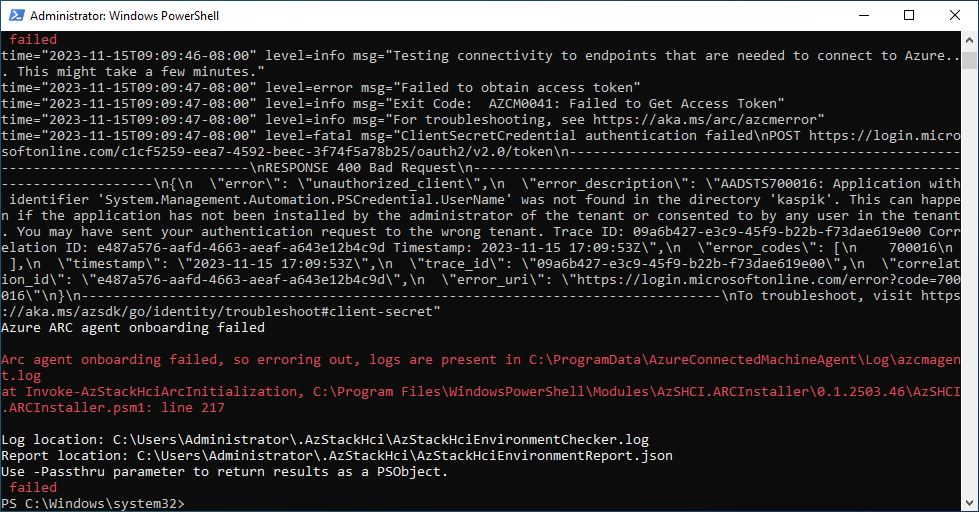
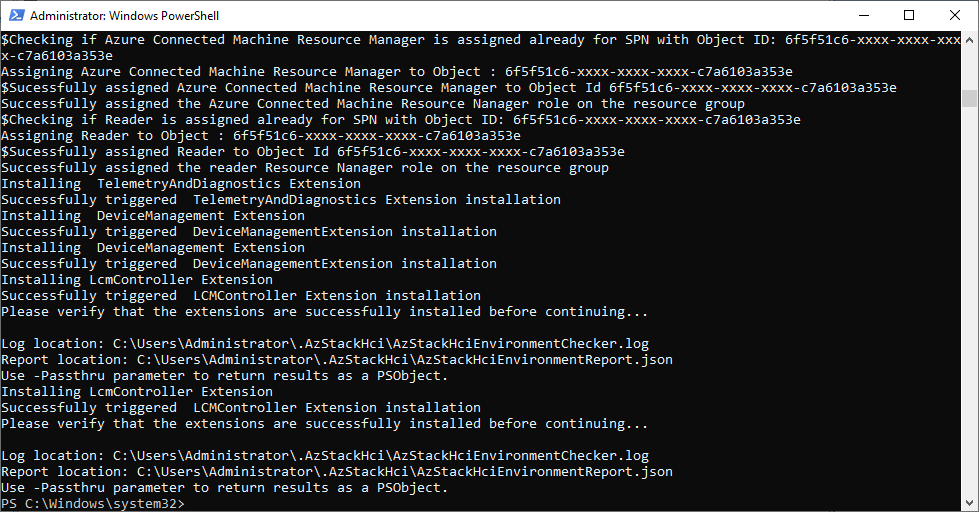
Service Principal removed

Changed region(s): [[0.0, 0.0625, 1.0, 0.9688], [0.9806, 0.9688, 1.0, 1.0], [0.9806, 0.0, 1.0, 0.0312]]

diff --git a/lab-guides/08-DeployAzureStackHCICluster-CloudBasedDeployment/readme.md b/lab-guides/08-DeployAzureStackHCICluster-CloudBasedDeployment/readme.md
@@ -10,8 +10,8 @@
     - [Task02 - Prepare Azure](#task02---prepare-azure)
     - [Task03 - Prepare Azure Stack HCI nodes for Cloud Deployment](#task03---prepare-azure-stack-hci-nodes-for-cloud-deployment)
     - [Task03 - Add some final touches before launching cloud deployment from portal](#task03---add-some-final-touches-before-launching-cloud-deployment-from-portal)
-    - [Task04 Perform Azure Stack HCI deployment from Azure Portal](#task04-perform-azure-stack-hci-deployment-from-azure-portal)
-    - [Task05 Monitor Deployment Progress](#task05-monitor-deployment-progress)
+    - [Task04 - Perform Azure Stack HCI deployment from Azure Portal](#task04---perform-azure-stack-hci-deployment-from-azure-portal)
+    - [Task05 - Monitor Deployment Progress](#task05---monitor-deployment-progress)
 
 <!-- /TOC -->
 
@@ -290,126 +290,29 @@ Invoke-Command -ComputerName $Servers -ScriptBlock {
 
 #make sure Az.Resources module is installed on nodes
 Invoke-Command -ComputerName $Servers -ScriptBlock {
-    Install-Module -Name Az.Resources  -Force
+    Install-Module -Name Az.Resources -Force
 } -Credential $Credentials
 
 #make sure az.accounts module is installed on nodes
 Invoke-Command -ComputerName $Servers -ScriptBlock {
-    Install-Module -Name az.accounts  -Force
+    Install-Module -Name az.accounts -Force
 } -Credential $Credentials
  
 ```
 
-**Step 5** Create custom Azure Stack HCI role with permissions to onboard Arc with connected machine agent (Arc agent)
-
-> This process will likely change. First, there might be built-in role for that and second, this role has permission to write role assignements.
-
-> For more information visit https://learn.microsoft.com/en-us/azure/role-based-access-control/built-in-roles#azure-connected-machine-onboarding
+**Step 5** Deploy ARC agent with Invoke-AzStackHCIarcInitialization
 
 ```PowerShell
-if (-not (Get-AzRoleDefinition -Name "Azure Stack HCI ARC Onboarding - Custom" -ErrorAction Ignore)){
-    $Content=@"
-{
-    "Name": "Azure Stack HCI ARC Onboarding - Custom",
-    "Id": null,
-    "IsCustom": true,
-    "Description": "Custom Azure role to allow onboard Azure Stack HCI with azshci.arcinstaller",
-    "Actions": [
-        "Microsoft.HybridCompute/machines/read",
-        "Microsoft.HybridCompute/machines/write",
-        "Microsoft.HybridCompute/privateLinkScopes/read",
-        "Microsoft.GuestConfiguration/guestConfigurationAssignments/read",
-        "Microsoft.HybridCompute/machines/extensions/write",
-        "Microsoft.Authorization/roleAssignments/write"
-    ],
-    "NotActions": [
-    ],
-    "AssignableScopes": [
-        "/subscriptions/$SubscriptionID"
-    ]
-    }
-"@
-    $Content | Out-File "$env:USERPROFILE\Downloads\customHCIRole.json"
-    New-AzRoleDefinition -InputFile "$env:USERPROFILE\Downloads\customHCIRole.json"
-}
- 
-```
-
-![](./media/powershell04.png)
-
-As result, you will see new custom role in IAM under your subscription.
-
-![](./media/edge01.png)
-
-**Step 6** Create Service Principal (Entra Enterprise Application)
-
-> Service principal will allow you to create credentials for ARC onboarding. These credentials will be then used by Arc Installer.
-
-```PowerShell
-#Create AzADServicePrincipal for Azure Stack HCI registration (if it does not exist)
-    $SP=Get-AZADServicePrincipal -DisplayName $ServicePrincipalName
-    if (-not $SP){
-        $SP=New-AzADServicePrincipal -DisplayName $ServicePrincipalName -Role "Azure Stack HCI ARC Onboarding - Custom"
-        #remove default cred
-        Remove-AzADAppCredential -ApplicationId $SP.AppId
-    }
- 
-```
-
-![](./media/edge02.png)
-
-**Step 7** Create new Service Principal Password
-
-```PowerShell
-#Create new SPN password
-    $credential = New-Object -TypeName "Microsoft.Azure.PowerShell.Cmdlets.Resources.MSGraph.Models.ApiV10.MicrosoftGraphPasswordCredential" -Property @{
-        "KeyID"         = (new-guid).Guid ;
-        "EndDateTime" = [DateTime]::UtcNow.AddYears(1)
-    }
-    $Creds=New-AzADAppCredential -PasswordCredentials $credential -ApplicationID $SP.AppID
-    $SPNSecret=$Creds.SecretText
-    $SPAppID=$SP.AppID
-    $SecuredPassword = ConvertTo-SecureString $SPNSecret -AsPlainText -Force
-    $SPNCredentials= New-Object System.Management.Automation.PSCredential ($SPAppID,$SecuredPassword)
- 
-```
-
-![](./media/edge03.png)
-
-**Step 8** Deploy ARC agent with Invoke-AzStackHCIarcInitialization (will fail)
-
-```PowerShell
-#deploy ARC Agent (It's failing, can't figure out why)
+#deploy ARC Agent
+    $ARMtoken = (Get-AzAccessToken).Token
+    $id = (Get-AzContext).Account.Id
     Invoke-Command -ComputerName $Servers -ScriptBlock {
-        Invoke-AzStackHciArcInitialization -SubscriptionID $using:SubscriptionID -ResourceGroup $using:ResourceGroupName -TenantID $using:TenantID -Cloud $using:Cloud -Region $Using:Location -SpnCredential $Using:SPNCredentials
+        Invoke-AzStackHciArcInitialization -SubscriptionID $using:SubscriptionID -ResourceGroup $using:ResourceGroupName -TenantID $using:TenantID -Cloud $using:Cloud -Region $Using:Location -ArmAccessToken $using:ARMtoken -AccountID $using:id
     } -Credential $Credentials
  
 ```
 
 ![](./media/powershell05.png)
-
-**Step 9** Register arc agent manually and try again
-
-```PowerShell
-#let's onboard ARC agent "manually"
-    Invoke-Command -ComputerName $Servers -ScriptBlock {
-        $machineName = [System.Net.Dns]::GetHostName()
-        $SPNCredentials=$using:SPNCredentials
-        $SPNpassword=$SPNCredentials.GetNetworkCredential().Password
-        & "$env:ProgramW6432\AzureConnectedMachineAgent\azcmagent.exe" connect --service-principal-id $using:SpnCredentials.UserName --service-principal-secret $SPNpassword --resource-group $using:ResourceGroupName  --resource-name "$machineName"  --tenant-id $using:TenantID --location $Using:Location --subscription-id $using:SubscriptionID --cloud $using:Cloud
-    } -Credential $Credentials
-
-#and let's run deployment again
-    Invoke-Command -ComputerName $Servers -ScriptBlock {
-        Invoke-AzStackHciArcInitialization -SubscriptionID $using:SubscriptionID -ResourceGroup $using:ResourceGroupName -TenantID $using:TenantID -Cloud $using:Cloud -Region $Using:Location -SpnCredential $Using:SPNCredentials
-    } -Credential $Credentials
-
-```
-
-![](./media/powershell06.png)
-
-![](./media/powershell07.png)
-
 
 ## Task03 - Add some final touches before launching cloud deployment from portal
 
@@ -444,7 +347,7 @@ As result, you will see new custom role in IAM under your subscription.
  
 ```
 
-## Task04 Perform Azure Stack HCI deployment from Azure Portal
+## Task04 - Perform Azure Stack HCI deployment from Azure Portal
 
 **Step 1** Navigate to Azure Portal and in Azure Stack HCI clusters, click on Create button
 
@@ -532,7 +435,7 @@ Tags:
 ![](./media/edge15.png)
 
 
-## Task05 Monitor Deployment Progress
+## Task05 - Monitor Deployment Progress
 
 **Step 1** Monitor deployment progress from Management machine
 
